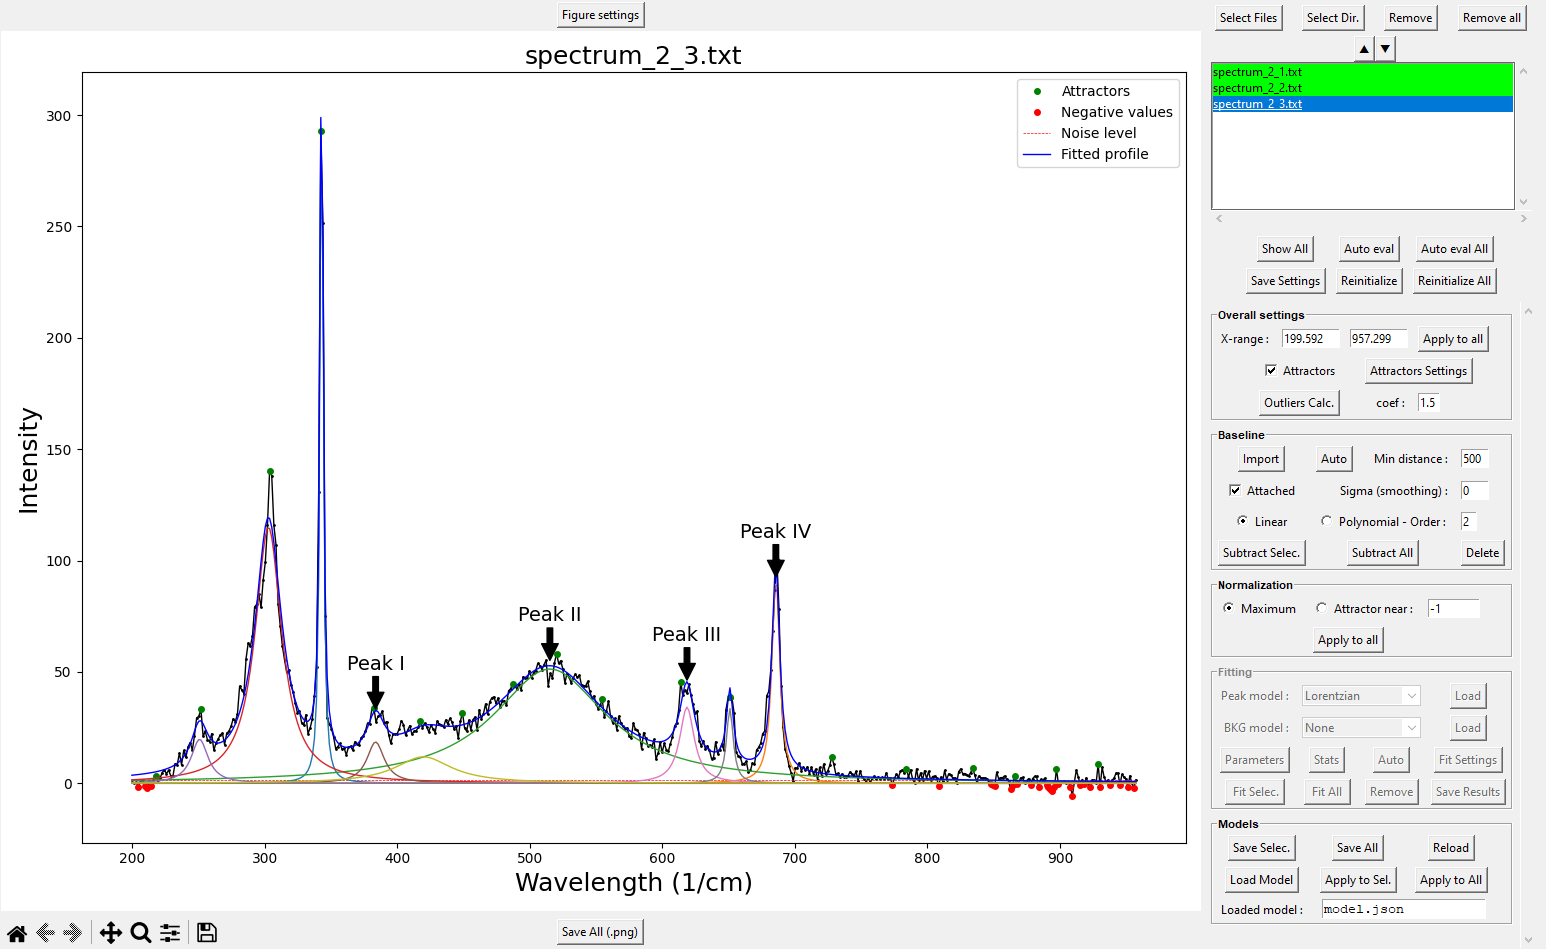
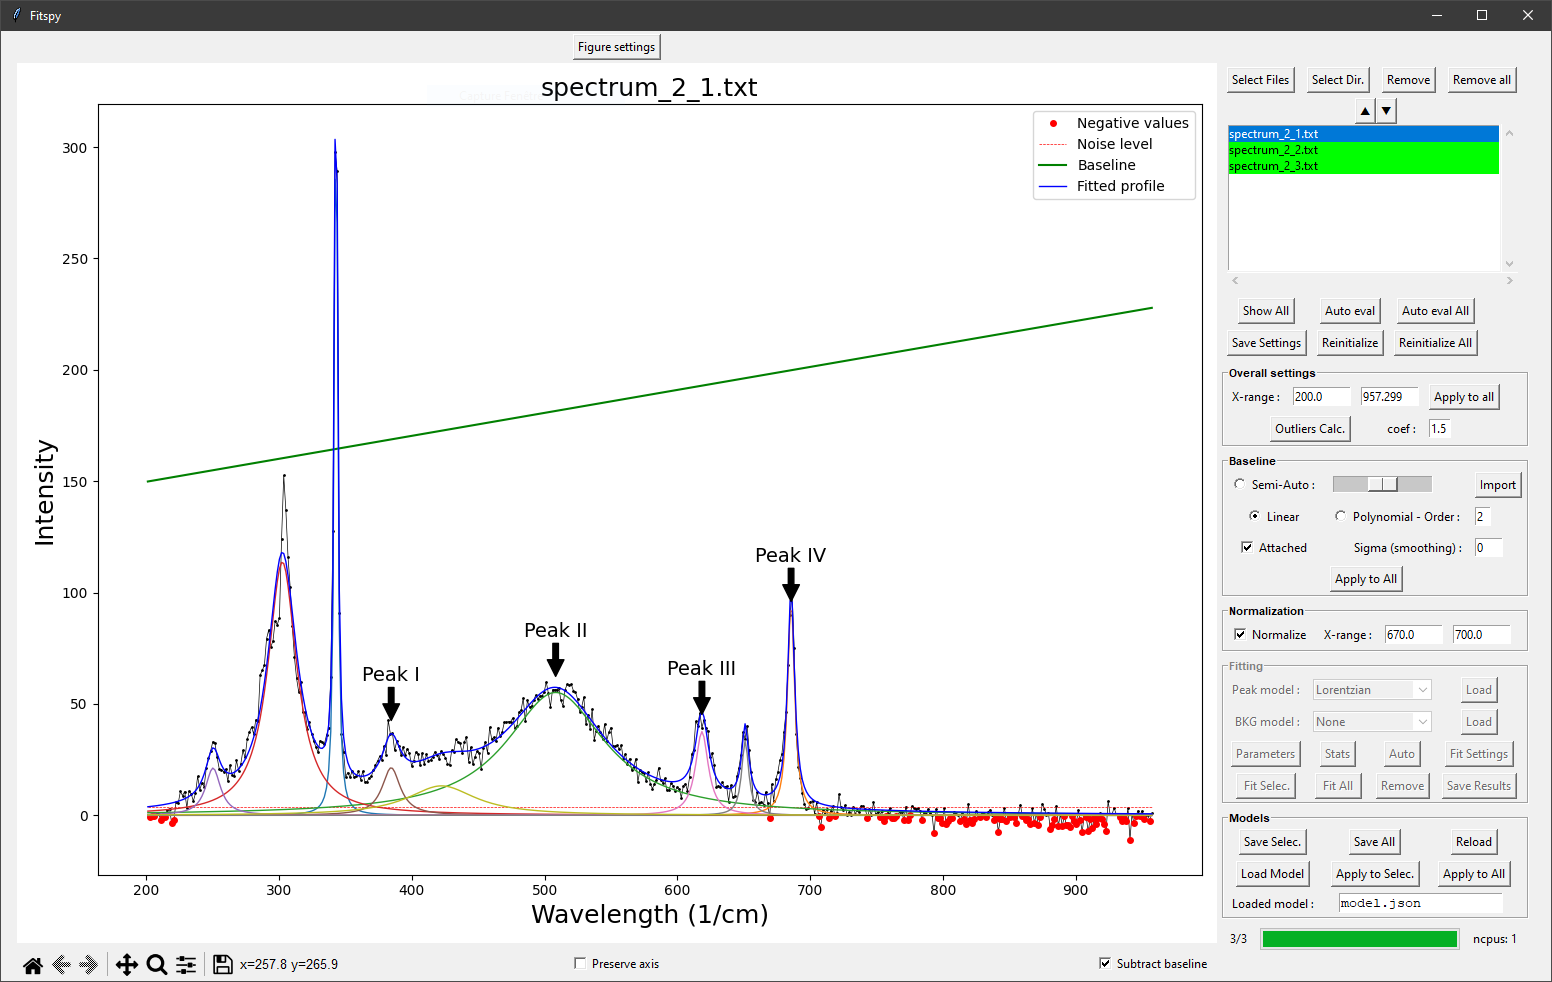
update doc for v2024.5

diff --git a/doc/release_notes/release_notes.rst b/doc/release_notes/release_notes.rst
@@ -1,11 +1,30 @@
 Release Notes
 =============
 
+Version 2024.5 (September 4, 2024)
+----------------------------------
+
+**New features:**
+
+- A semi-automatic approach for the baseline determination has been added
+- The spectra can now be displayed before and after the baseline subtraction
+
+
+**Enhancements:**
+
+- The progressbar (with the number of CPUS used during the calculations) has been integrated in the processing windows.
+- The spectra input data formats have been extended to .dm3, .dm4, .emd, .hspy, .nxs files and many other formats thanks to the rosettasciio readers integration
+
+
+**Bug fixes:**
+
+- Allow fit processing without any peak or background model (just for baselines visualization for instance)
+
 
 Version 2024.4 (February 27, 2024)
 ----------------------------------
 
-New features:
+**New features:**
 
 - noise is now estimated and a noise level criteria enables to automatically deactivate peak models in noisy regions.
 - optional outlier detection has been added, enabling the disregarding of outliers during baseline calculation and fitting processes.
@@ -13,7 +32,7 @@ New features:
 - all fitted parameters from all loaded spectra can now be saved in a single file named 'results.csv'.
 
 
-Enhancements:
+**Enhancements:**
 
 - multi-threaded calculations return now the complete fit report.
 - a new boolean argument, 'reinit_guess', has been added in Spectrum.fit(), enabling the adjustment of initial values for 'ampli' and 'fwhm' to the current spectrum. This helps circumvent "ill-conditioned" peak models (with fwhm~0) resulting from previous 'Fitspy' model calculations.
@@ -21,7 +40,7 @@ Enhancements:
 - parameters and statistics displaying have been separated.
 
 
-Bug fixes:
+**Bug fixes:**
 
 - the index count used to label the models was not reset to 1 when reloading a model
 - 2d-maps with a single X or Y coordinate were not supported
@@ -32,13 +51,13 @@ Bug fixes:
 Version 2024.2 (January 29, 2024)
 ---------------------------------
 
-New features:
+**New features:**
 
 - Add a progressbar in the terminal and in the GUI to follow the calculation progression during the fit processing
 - Enable the loading of user-defined models through dedicated 'Load' buttons in the GUI.
 
 
-Enhancements:
+**Enhancements:**
 
 - Display the models parameters on the figure whatever the fit status
 - Highlight/reduce the peak model curve linewidth according to the fit success status
@@ -46,7 +65,7 @@ Enhancements:
 - Take into account the 'fit_kws' through the 'kwargs' of Spectrum.fit() to be passed to the lmfit Model.fit()
 
 
-Code changes:
+**Code changes:**
 
 - Baseline format/use revisited to disable multiple baselines subtract capability (the 'baseline_history' spectrum attributes has been removed)
 - Spectrum attributes has benn changed from:
@@ -57,7 +76,7 @@ Code changes:
     * 'models_index' to 'peak_index'
 
 
-Bug fixes:
+**Bug fixes:**
 
 - Fixed bug when reloading 'old' model.json in which :code:`bkg_model` was absent
 - Fixed bug when using user-defined model in multithreading
@@ -68,7 +87,7 @@ Bug fixes:
 Version 2024.1 (January 16, 2024)
 ---------------------------------
 
-New features:
+**New features:**
 
 - Add user-defined model capability from external files (in a '.txt' file located in :code:`%HOMEUSER%/Fitspy` for models creation from literal expressions or in a '.py' file from python scripting)
 - Add Fitspy static HTML Sphinx documentation in `https://cea-metrocarac.github.io/fitspy/doc <https://cea-metrocarac.github.io/fitspy/doc/index.html>`_
@@ -76,14 +95,14 @@ New features:
 - Spectra, Spectrum and SpectraMap class have now their own dedicated .py modules
 
 
-Enhancements:
+**Enhancements:**
 
 - Add background visualization and display the corresponding parameters in the tabview
 - Display only the used parameters models in the tabview
 - Add xmin and xmax (optional) arguments to spectrum.load_profile() to ease the x-range setting when loading profiles by python scripts
 
 
-Bug fixes:
+**Bug fixes:**
 
 - Fixed bug for system identification that enables clipboard copy on Windows only
 - Fixed bug on data paths in the examples

diff --git a/doc/user_guide/workflow.rst b/doc/user_guide/workflow.rst
@@ -28,28 +28,27 @@ GUI Mode
 - (`2 <gui.html?overall_settings.html>`_) *Define the* :code:`X-range`
 - (`3 <gui.html?baseline.html>`_) *Click on the* :code:`Baseline` *panel to activate it (if not)*
 - (`4 <gui.html?baseline.html>`_) *Select baseline points on the main figure* **(*)**
-- (`5 <gui.html?baseline.html>`_) :code:`Subtract Selec.` the baseline to the selected spectra *or* :code:`Subtract All` the baseline(s)
-- (`6 <gui.html?fitting.html>`_) **Click on the** :code:`Fitting` **panel to activate it (if not)**
-- (`7 <gui.html?fitting.html>`_) **Select a** :code:`Peak model`
-- (`8 <gui.html?fitting>`_) *Select a peak point on the main figure* **(*)**
-- (`9 <gui.html?fitting>`_) *Add a background* (:code:`BKG model`) *to be fitted*
-- (`10 <gui.html?fitting>`_) *Use* :code:`Parameters` *to see the results and to set bounds and constraints for a new fitting*
-- (`13 <gui.html?models>`_) :code:`Save Select` *or* :code:`Save All` *the `Models` in a `.json` file (to be replayed later)*
+- (`5 <gui.html?fitting.html>`_) **Click on the** :code:`Fitting` **panel to activate it (if not)**
+- (`6 <gui.html?fitting.html>`_) **Select a** :code:`Peak model`
+- (`7 <gui.html?fitting>`_) *Select a peak point on the main figure* **(*)**
+- (`8 <gui.html?fitting>`_) *Add a background* (:code:`BKG model`) *to be fitted*
+- (`9 <gui.html?fitting>`_) *Use* :code:`Parameters` *to see the results and to set bounds and constraints for a new fitting*
+- (`12 <gui.html?models>`_) :code:`Save Select` *or* :code:`Save All` *the `Models` in a `.json` file (to be replayed later)*
 
 **(*)** *use left/right click on the figure to add/delete a baseline or a peak point*
 
 Once saved, a `Fitspy` model enables to recover a previous state (as-it, if all the spectra defined in the model can be loaded again) as follows:
 
-- (`14 <gui.html?fitting>`_) :code:`Reload` *the `Fitspy` model (`.json` file)*
-- (`11 <gui.html?fitting>`_) :code:`Fit Selec.` **or** :code:`Fit All` **the spectra**
-- (`12 <fitting.html>`_) :code:`Save Results` (**fitted parameters** and **statistics**)
+- (`13 <gui.html?fitting>`_) :code:`Reload` *the `Fitspy` model (`.json` file)*
+- (`10 <gui.html?fitting>`_) :code:`Fit Selec.` **or** :code:`Fit All` **the spectra**
+- (`11 <fitting.html>`_) :code:`Save Results` (**fitted parameters** and **statistics**)
 
 Or, after removing all spectra in the file selector widget (:code:`Remove All`), the `Fitspy` model can be apply to another data set as follows:
 
 - (`1 <gui.html?files_selection.html>`_) **Select file(s) from** :code:`Select Files`  **or**  :code:`Select Dir`
-- (`15 <gui.html?models>`_) :code:`Load Model` *(associated to the first `spectra` if several)
-- (`16 <gui.html?models>`_) :code:`Apply to Sel.` *or* :code:`Apply to All`
-- (`12 <fitting.html>`_) :code:`Save Results` (**fitted parameters** and **statistics**)
+- (`14 <gui.html?models>`_) :code:`Load Model` *(associated to the first `spectra` if several)
+- (`15 <gui.html?models>`_) :code:`Apply to Sel.` *or* :code:`Apply to All`
+- (`11 <fitting.html>`_) :code:`Save Results` (**fitted parameters** and **statistics**)
 
 
 Scripting Mode

diff --git a/doc/user_guide/gui.rst b/doc/user_guide/gui.rst
@@ -71,9 +71,6 @@ Overall settings
 
 :code:`Apply to All`  applies the (x) support range defined in `X-range` to all the spectra.
 
-:code:`Attractors` are associated with local maxima intensities. When activated, attractors are used for locating baseline and peaks points.
-The attractors points are calculated using scipy.signal.find_peaks() based on the parameters defined in :code:`Settings`.
-Refer to `scipy.signal.find_peaks <https://docs.scipy.org/doc/scipy/reference/generated/scipy.signal.find_peaks.html>`_ for more details.
 
 :code:`Outliers Calc` allows defining a line (called in `Fitspy` **outliers_limit**) from which values above are considered as outliers.
 This line is defined as corresponding to the envelope of the spectra multiplied by the :code:`coef` factor.
@@ -91,6 +88,8 @@ Baseline
    <br>
 
 **The current frame is activated and deactivated when clicking on it.**
+
+:code:`Semi-Auto` allows a semi-automatic baseline determination based on the ARPLS (Asymmetrically Reweighted Penalized Least Squares) approach described `here <https://doi.org/10.1039/C4AN01061B>`_. The user only needs to adjust the smoothing coefficient with the slider beside that seems most likely to bring the baseline closest to the desired result.
 
 :code:`Import` enables the user to import their own baseline profiles. The imported file should contain 2 columns associated with the (x,y) coordinates of the baseline points.
 Similar to spectrum profiles, the separators between the columns can be tabulation :code:`\t`, comma :code:`,`, semicolon :code:`;` or space :code:`\ `.
@@ -116,11 +115,7 @@ Normalization
 
 An **optional** spectra normalization is offered and relies on the two following strategies:
 
-* :code:`Maximum`: each spectrum is normalized to 100 based on its maximum intensity.
-
-* :code:`Attractor`: each spectrum is normalized to 100 according to the intensity of the nearest attractor located at the x-position given by the user.
-
-To be effective, the user should press on :code:`Apply to all`.
+* :code:`Maximum`: when activated, each spectrum is normalized to 100 based on its maximum intensity on the :code:`X-range` specified by the user. (None-None refers to no upper and lower x-range delimitation, that is to say all the support is considered).
 
 
 Fitting

diff --git a/doc/user_guide/baseline.rst b/doc/user_guide/baseline.rst
@@ -10,9 +10,12 @@ Two approaches are available in `Fitspy` to handle **non-flattened profiles**:
 Baseline approach
 -----------------
 
-This approach involves manually predefining points to establish the baseline profile that will be subtracted before fitting.
+This approach involves either **manually** predefining points to establish the baseline profile that will be subtracted before fitting or a **semi-automatic** algorithm described hereafter.
 
-From the baseline peaks, the profile all along the spectrum support is obtained by interpolation either from **piecewise** or **polynomial** approximations.
+Manual approach
+~~~~~~~~~~~~~~~
+
+From the baseline points, the profile all along the spectrum support is obtained by interpolation either from **piecewise** or **polynomial** approximations.
 
 .. figure::  ../_static/gen_figures_baseline.png
    :align:   center
@@ -25,6 +28,15 @@ This feature allows to adapt the baseline points to the spectrum notably when pr
 
 
 Note that to minimize the impact of noise in the baseline attached-points definition, a smoothing can be considered on the spectra intensities before linking. This smoothing is based on a gaussian filtering considering :code:`sigma` (in pixel) as the standard deviation.
+
+
+Semi-Automatic approach
+~~~~~~~~~~~~~~~~~~~~~~~
+
+From the 2024.5, a semi-automatic algorithm is availabel to evaluate the baseline. Based on the ARPLS (Asymmetrically Reweighted Penalized Least Squares) approach described `here <https://doi.org/10.1039/C4AN01061B>`_. The user only needs to visually adjust the smoothing coefficient that seems most likely to bring the baseline closest to the desired result.
+
+.. figure::  ../_static/baseline_semi_auto.png
+   :align:   center
 
 
 Background model

diff --git a/doc/user_guide/auto_mode.rst b/doc/user_guide/auto_mode.rst
@@ -3,19 +3,9 @@ Auto mode
 
 An automatic mode for defining baseline and peak models is proposed in Fitspy. This can help in certain cases but will never override the acuity of a model manually defined by the user.
 
-:code:`Auto eval` mode in the GUI corresponds to the successive execution of the :code:`Auto` mode for **Baseline** followed by the :code:`Auto` mode for **Fitting**
+:code:`Auto eval` mode in the GUI corresponds to the successive execution of the :code:`Semi-Auto` option for **Baseline** (see `here <baseline.html?semi-automatic-approach=#semi-automatic-approach>`_) followed by the :code:`Auto` mode for **Fitting**
 
 
-Baseline Auto
--------------
-
-The :code:`Auto` mode, in the case of baselines, consists of defining the minimum intensity points using the `find_peaks() <https://docs.scipy.org/doc/scipy/reference/generated/scipy.signal.find_peaks.html>`_ function from scipy and a certain minimum distance between points, given by :code:`Min. distance` (in pixel) in the GUI.
-
-
-
-Fitting Auto
-------------
-
-In the case of fitting, the :code:`Auto` mode involves an iterative process of residual minimization.
+The :code:`Auto` mode in **Fitting** involves an iterative process of residual minimization.
 
 At each iteration, a peak model (according to the type defined by the user) is associated with the maximum intensity of the residual, which then joins the peaks defined in the previous iterations. The process of adding peak models and fitting stops when the maximum residual intensity falls below a certain threshold (currently set to 10% of the maximum amplitude of the spectrum).

diff --git a/doc/user_guide/intro.rst b/doc/user_guide/intro.rst
@@ -77,12 +77,12 @@ Quick start
 Once the `Fitspy` GUI has opened, from top to bottom of the right panel, the strict minimum operations (in red) for a spectrum fitting consists of:
 
 - (`1 <files_selection.html>`_) **Select file(s) from** :code:`Select Files`  **or**  :code:`Select Dir`
-- (`6 <fitting.html>`_) **Click on the** :code:`Fitting` **panel to activate it (if not)**
-- (`7 <fitting.html>`_) **Select a** :code:`Peak model`
-- (`8 <fitting.html>`_) **Select a peak point on the main figure** *(with left/right click on the figure to add/delete a peak point)*
+- (`5 <fitting.html>`_) **Click on the** :code:`Fitting` **panel to activate it (if not)**
+- (`6 <fitting.html>`_) **Select a** :code:`Peak model`
+- (`7 <fitting.html>`_) **Select a peak point on the main figure** *(with left/right click on the figure to add/delete a peak point)*
 - Repeat the last two actions as needed
-- (`11 <fitting.html>`_) :code:`Fit Selec.` **the spectrum/spectra selected in the files selector widget or** :code:`Fit All` **the spectra**
-- (`12 <fitting.html>`_) :code:`Save Results` (**fitted parameters** and **statistics**)
+- (`10 <fitting.html>`_) :code:`Fit Selec.` **the spectrum/spectra selected in the files selector widget or** :code:`Fit All` **the spectra**
+- (`11 <fitting.html>`_) :code:`Save Results` (**fitted parameters** and **statistics**)
 
 .. figure::  ../_static/workflow.png
    :align:   center

diff --git a/doc/user_guide/outputs.rst b/doc/user_guide/outputs.rst
@@ -22,16 +22,9 @@ The **output models** consist of .json files in which all parameters of the spec
           "fname": "../examples/data/spectra_2/spectrum_2_1.txt",
           "range_min": 200.0,
           "range_max": 957.299,
-          "norm_mode": "Attractor",
-          "norm_position_ref": 685,
-          "peaks": [88, 64, 307, 188, 210, 262, 113, 168, 285, 145, 31, 231, 330, 464, 431, 394, 366, 11],
-          "peaks_params": {
-             "distance": 20,
-             "prominence": 0,
-             "width": 0,
-             "height": 0,
-             "threshold": 0
-          },
+          "normalize": true,
+          "normalize_range_min": 670.0,
+          "normalize_range_max": 700.0,
           "models_labels": ["", "Peak IV", "Peak II", "", "", "Peak I", "Peak III", "", ""],
           "bkg_model": null,
           "fit_method": "Leastsq",

diff --git a/doc/user_guide/fitting.rst b/doc/user_guide/fitting.rst
@@ -70,8 +70,8 @@ Similarly to noisy areas of outliers, the presence of negative values in the pro
 (The same with :code:`fit_outliers` for outliers and :code:`coef_noise` to bypass regions defined mainly by noise).
 
 
-Multithreading
-~~~~~~~~~~~~~~
+Multi-threading
+~~~~~~~~~~~~~~~
 
 In the GUI, the default mode is **'Number of CPU : auto'** which adapts automatically the number of CPU to the number of profiles to be processed and the CPU capability of the machine (by utilizing up to half of the available CPU resources).
 

diff --git a/doc/user_guide/input_data.rst b/doc/user_guide/input_data.rst
@@ -7,6 +7,9 @@ Two types of input data can be interpreted:
     - basic single **1D-spectrum**
     - **2D map** spectra
 
+.. note::
+    From the 2024.5, it is possible to load **.dm3, .dm4, .emd, .hspy, .nxs** files and many other formats thanks to the **rosettasciio** readers integration (see `here <https://hyperspy.org/rosettasciio/user_guide/supported_formats/index.html#supported-formats>`_ for more details about the readable formats).
+
 
 1D-spectrum
 -----------
